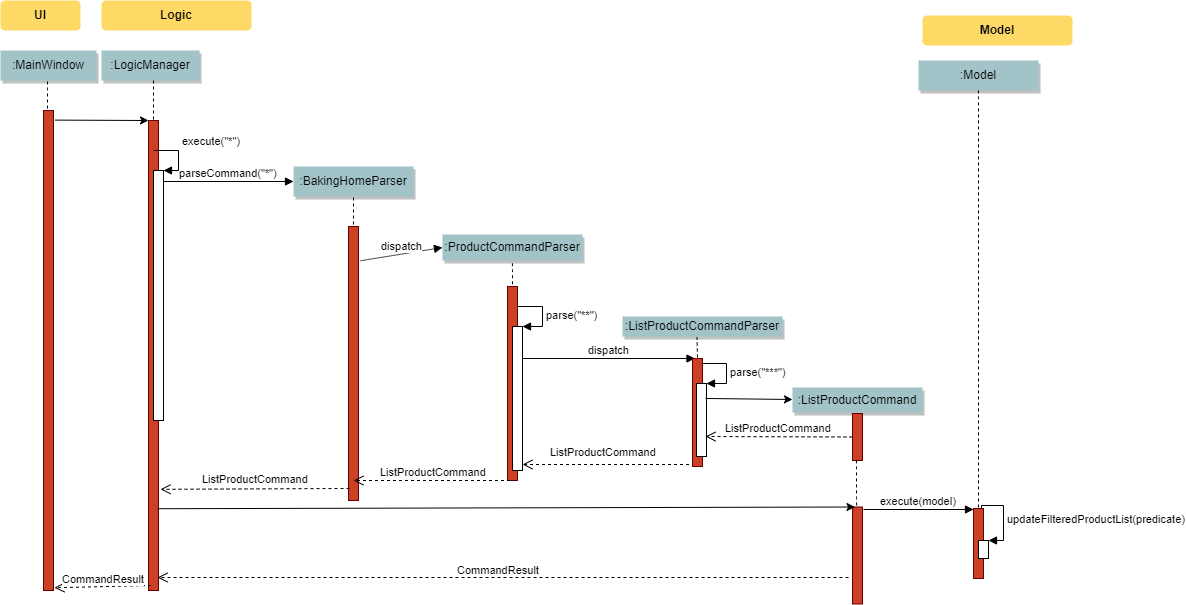
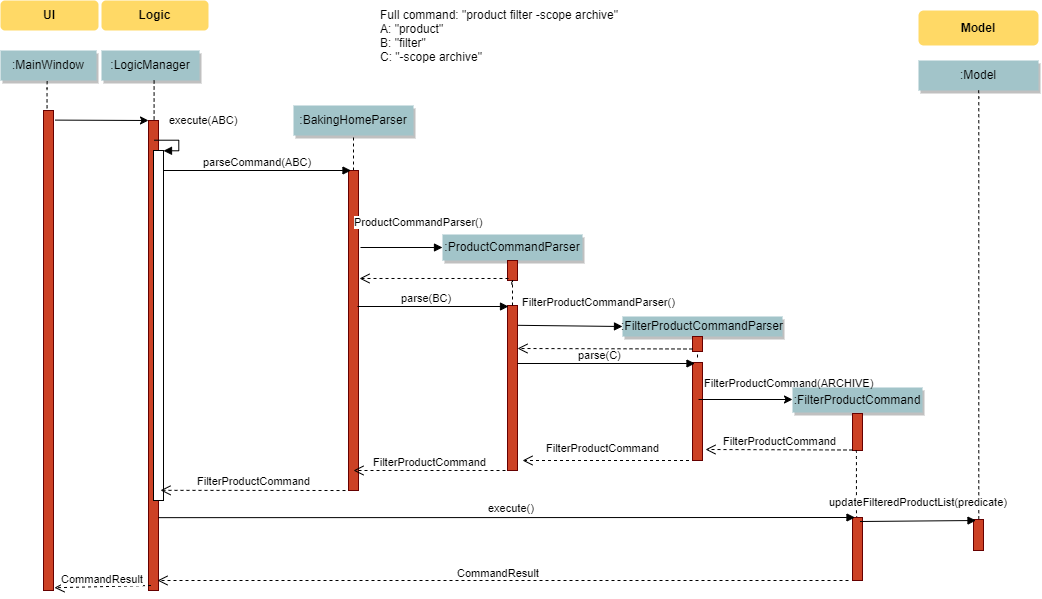
update FilterProductSD

diff --git a/src/main/java/duke/commons/util/StringUtil.java b/src/main/java/duke/commons/util/StringUtil.java
@@ -1,7 +1,11 @@
 package duke.commons.util;
 
+import duke.logic.parser.exceptions.ParseException;
+import javafx.util.converter.BigIntegerStringConverter;
+
 import java.io.PrintWriter;
 import java.io.StringWriter;
+import java.math.BigInteger;
 import java.util.Arrays;
 
 import static duke.commons.util.AppUtil.checkArgument;
@@ -57,7 +61,7 @@ public class StringUtil {
      *
      * @throws NullPointerException if {@code s} is null.
      */
-    public static boolean isNonZeroUnsignedInteger(String s) {
+    public static boolean isNonZeroUnsignedInteger(String s) throws ParseException {
         requireNonNull(s);
 
         try {

diff --git a/src/main/java/duke/logic/parser/product/ProductCommandParser.java b/src/main/java/duke/logic/parser/product/ProductCommandParser.java
@@ -35,7 +35,7 @@ ProductCommandParser implements SubCommandParser<ProductCommand> {
         case EditProductCommand.COMMAND_WORD:
             return new EditProductCommandParser().parse(args);
         case FilterProductCommand.COMMAND_WORD:
-            return new ListProductCommandParser().parse(args);
+            return new FilterProductCommandParser().parse(args);
         case DeleteProductCommand.COMMAND_WORD:
             return new DeleteProductCommandParser().parse(args);
         case SearchProductCommand.COMMAND_WORD:

diff --git a/src/main/java/duke/logic/parser/product/FilterProductCommandParser.java b/src/main/java/duke/logic/parser/product/FilterProductCommandParser.java
@@ -9,7 +9,7 @@ import duke.logic.parser.exceptions.ParseException;
 
 import static duke.logic.parser.commons.CliSyntax.PREFIX_PRODUCT_SCOPE;
 
-public class ListProductCommandParser implements Parser<FilterProductCommand> {
+public class FilterProductCommandParser implements Parser<FilterProductCommand> {
     /**
      * Parses {@code userInput} into a command and returns it.
      *
